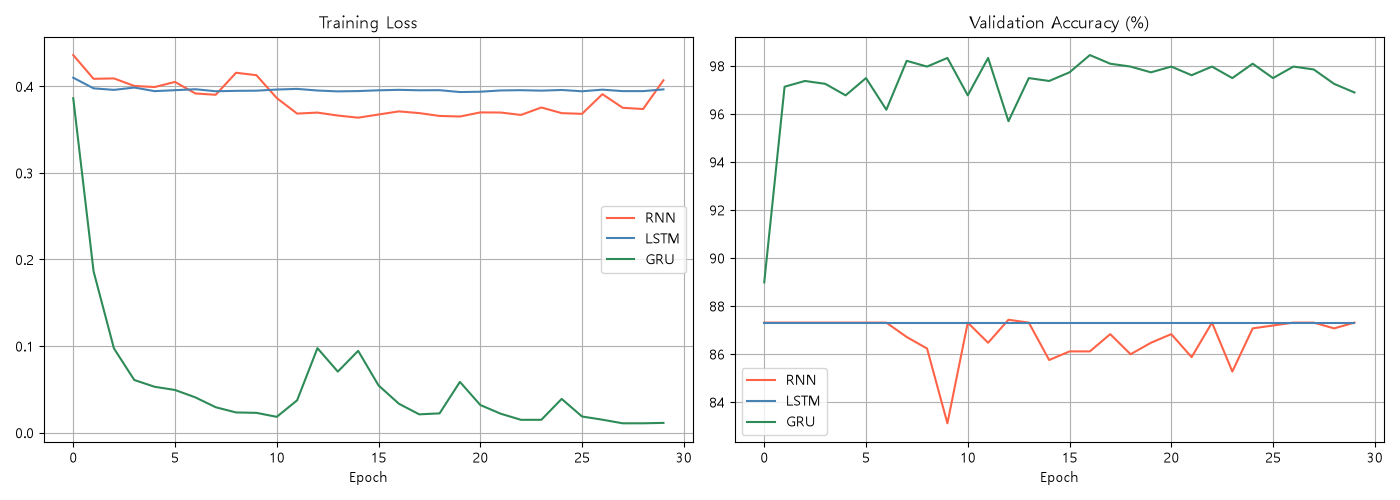
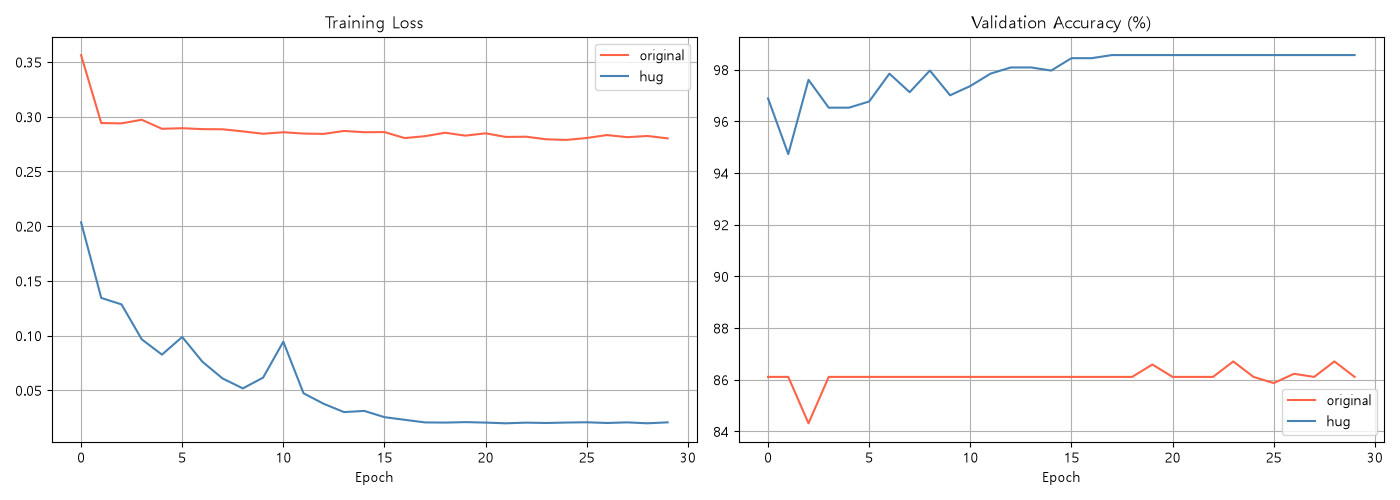
+0828 10:00 am

diff --git a/models/embeddings.py b/models/embeddings.py
@@ -1,0 +1,179 @@
+
+#파일, 폴더 등 접근 및 위치 관리
+import os, sys, shutil
+#인터넷에서 파일 자동 다운로드 요청
+import urllib.request
+#압축파일 풀기
+import zipfile, gzip
+
+#인터넷을 오고 가는 요청 신호의 자료형 고정 => FastAPI / pydantic 
+from typing import Dict, List, Optional, Tuple
+
+import numpy as np
+import torch
+import torch.nn as nn
+
+#진행률 표시 함수
+def _progress_hook(msg: str):
+    """urllib 다운로드 진행률 콜백."""
+    downloaded = [0]
+    def hook(count, block_size, total_size):
+        downloaded[0] += block_size
+        if total_size > 0:
+            pct = min(downloaded[0] / total_size * 100, 100)
+            mb  = downloaded[0] / 1024 / 1024
+            print(f'\r  {msg}: {pct:5.1f}%  ({mb:.0f} MB)', end='', flush=True)
+    return hook
+
+#임베딩 -> 모델 
+#https://nlp.stanford.edu/projects/glove/
+def download_glove(dim: int = 100, save_dir: str = '.') -> str:
+    """
+    Stanford GloVe 6B 파일을 다운로드하고 압축을 해제한다.
+
+
+    파라미터  dim      : 50 / 100 / 200 / 300 중 선택
+              save_dir : 저장 폴더
+    반환      .txt 파일 경로
+    크기      glove.6B.zip 약 822MB → 선택한 차원 .txt 만 추출
+    """
+    assert dim in (50, 100, 200, 300), "dim 은 50/100/200/300 중 하나"
+    fname = f'glove.6B.{dim}d.txt'
+    fpath = os.path.join(save_dir, fname)
+
+    if os.path.exists(fpath):
+        print(f'[GloVe] 이미 존재: {fpath}')
+        return fpath
+
+    os.makedirs(save_dir, exist_ok=True)
+    zip_path = os.path.join(save_dir, 'glove.6B.zip')
+
+    if not os.path.exists(zip_path):
+        url = 'https://nlp.stanford.edu/data/glove.6B.zip'
+        print(f'[GloVe] 다운로드 시작 (약 822MB)\n  URL: {url}')
+        urllib.request.urlretrieve(url, zip_path,
+                                   reporthook=_progress_hook('GloVe'))
+        print()  # 줄바꿈
+
+
+    print(f'[GloVe] 압축 해제 중 ({fname})...')
+    with zipfile.ZipFile(zip_path) as z:
+        z.extract(fname, save_dir)
+    print(f'[GloVe] 완료: {fpath}')
+    return fpath
+
+#https://fasttext.cc/docs/en/english-vectors.html
+def download_fasttext(save_dir: str = '.', max_words: int = 200_000) -> str:
+    """
+    fasttext.cc 영어 크롤링 벡터를 다운로드하고 gz 압축을 해제한다.
+
+
+    파라미터  save_dir  : 저장 폴더
+              max_words : 이후 로드 시 상위 N개만 사용 (메모리 절약 안내용)
+    반환      .vec 파일 경로
+    크기      cc.en.300.vec.gz 약 1.2GB → 압축 해제 후 약 7GB
+
+
+    주의
+      파일이 매우 크므로 네트워크·디스크 여유 공간을 확인하고 실행하세요.
+      작은 파일이 필요하면 위키피디아 기반(약 6.5GB)을 쓰세요:
+        https://fasttext.cc/docs/en/pretrained-vectors.html  →  wiki.en.vec
+    """
+    fname    = 'cc.en.300.vec'
+    gz_fname = fname + '.gz'
+    fpath    = os.path.join(save_dir, fname)
+    gz_path  = os.path.join(save_dir, gz_fname)
+
+
+    if os.path.exists(fpath):
+        print(f'[FastText] 이미 존재: {fpath}')
+        return fpath
+
+
+    os.makedirs(save_dir, exist_ok=True)
+
+
+    if not os.path.exists(gz_path):
+        url = 'https://dl.fbaipublicfiles.com/fasttext/vectors-crawl/cc.en.300.vec.gz'
+        print(f'[FastText] 다운로드 시작 (약 1.2GB)\n  URL: {url}')
+        print('  ※ 파일이 크므로 시간이 걸립니다.')
+        urllib.request.urlretrieve(url, gz_path,
+                                   reporthook=_progress_hook('FastText'))
+        print()
+
+
+    print(f'[FastText] gz 압축 해제 중 → {fpath}')
+    print('  ※ 압축 해제 후 약 7GB가 필요합니다.')
+    with gzip.open(gz_path, 'rb') as f_in, open(fpath, 'wb') as f_out:
+        shutil.copyfileobj(f_in, f_out)
+    print(f'[FastText] 완료: {fpath}')
+    return fpath
+
+
+# ── 샘플 단어 정의 ─────────────────────────────────────────────────────────────
+# 의미적으로 가까운 단어끼리 같은 그룹 → 임베딩 공간에서 얼마나 모이는지 확인
+WORD_GROUPS: Dict[str, List[str]] = {
+    '왕족'   : ['king', 'queen', 'prince', 'princess'],
+    '국가'   : ['paris', 'france', 'london', 'england'],
+    '동물'   : ['dog', 'cat', 'bird', 'fish'],
+    '감정'   : ['happy', 'sad', 'angry', 'joy'],
+    'IT기술' : ['computer', 'internet', 'data', 'algorithm'],
+}
+
+# 각 그룹에 할당할 색상 (plotly CSS 색상명)
+GROUP_COLORS = {
+    '왕족'   : '#E05A5A',   # 빨강 계열
+    '국가'   : '#028090',   # 청록
+    '동물'   : '#02C39A',   # 민트
+    '감정'   : '#F4A261',   # 주황
+    'IT기술' : '#065A82',   # 진파랑
+}
+
+
+# 단어 → 그룹명 역매핑
+WORD_TO_GROUP: Dict[str, str] = {
+    w: g for g, words in WORD_GROUPS.items() for w in words
+}
+
+
+ALL_WORDS: List[str] = [w for words in WORD_GROUPS.values() for w in words]
+
+#임베딩 -> 단어를 특정한 '차원' 개수만큼 숫자로 표현하는 것. 
+#임베딩을 추출한다 -> 단어별 벡터를 찾아낸다.
+#단어별 벡터는 모델에 따라 다양한 차원을 가지고 있을 것임 -> 3차원으로 차원축소
+#차원축소된 값들을 3D 시각화하면 단어끼리 얼마나 가까울 지 볼 수 있다.
+
+#WORD_GROUP : Dict[str, List[str]]
+# 함수이름(매개변수) -> 리턴값자료형명시 :
+#1. 자료형 명시 -> 코드 자체가 문서처럼 어떤 값을 필요로 하는지 정확하게 표현
+#2. 정적 분석 -> Extension(확장프로그램)으로 정적 분석 프로그램 사용 시, 버그 찾아내기 간편
+def embed_random(words : List[str], embed_dim:int=64) -> Optional[np.ndarray]:
+    #[a, b, c, d] -> 0, a / 1, b / 2, c / 3, d
+    #[a:0, b:1, c:2, d:3] => vocab
+    vocab = {w:i for i, w in enumerate(words)}
+
+    #임베딩 레이어를 통해 words를 embed_dim에 뿌리는 과정
+    layer = nn.Embedding(len(words),
+                         embed_dim)
+
+    #a-> torch.tensor(1)  / vocab[a] -> 1
+    ids = torch.tensor([vocab[w] for w in words])
+    with torch.no_grad():
+        vectors = layer(ids).numpy()
+    return vectors
+
+def embed_glove():
+    pass 
+
+def embed_fasttext():
+    pass
+
+def embed_bert():
+    pass
+
+
+
+if __name__ == '__main__':
+    g_path = download_glove(dim=100, save_dir='.')
+    f_path = download_fasttext(save_dir='.')
+
